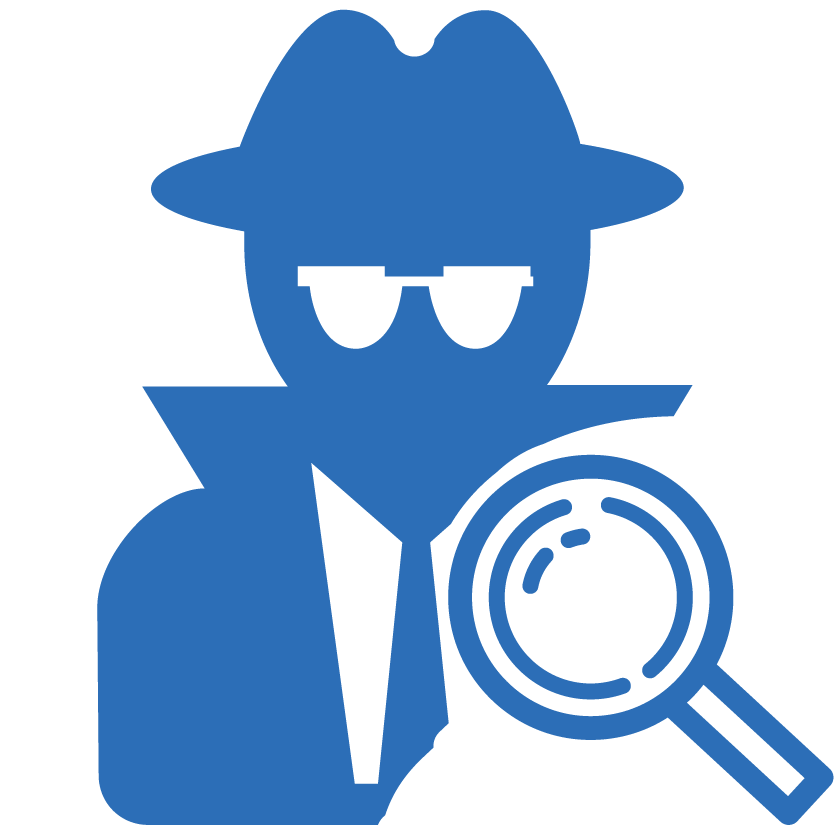
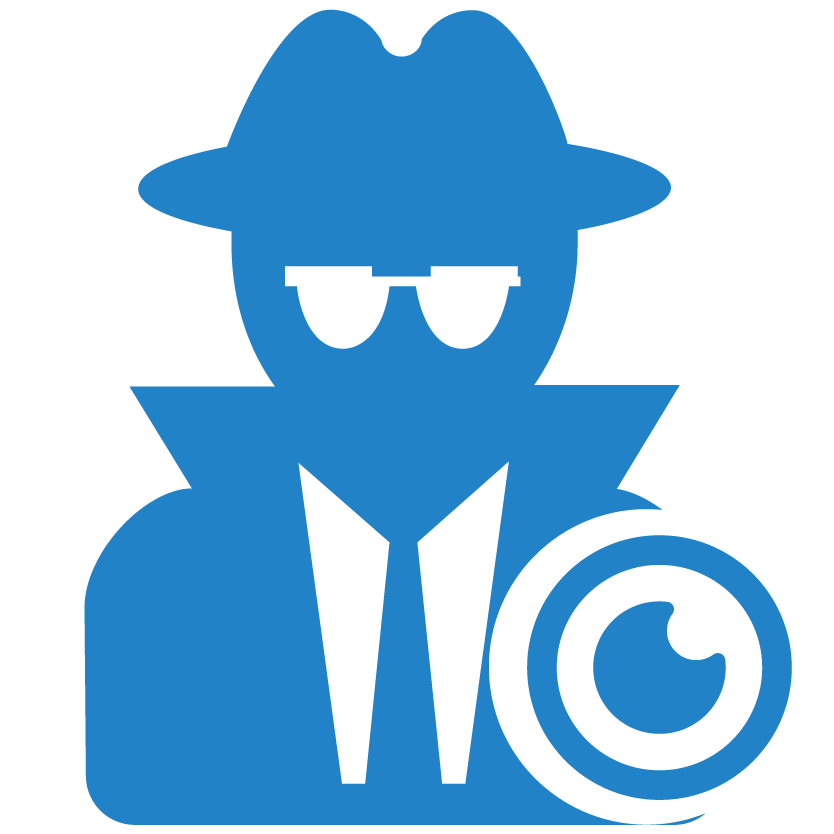
修改了项目配色方案，完善了介绍页，优化了登录细节

diff --git a/src/template/intro.html b/src/template/intro.html
@@ -67,9 +67,19 @@
           <div class="intro-page card">
             <div class="card-header">工具介绍</div>
             <div class="card-body">
-              <p>本工具用于快速识别</p>
+              <h1>角色识别助手</h1>
+              <p class="text-justify">
+                本工具名为角色识别助手，由<em>Github@NaiveJoker</em>制作，用于快速识别播放视频中出现的角色，为一部分人解决角色多时无法将人名与角色对应上的困扰。
+              </p>
               <h5>使用方法</h5>
-              <p>balabalabalabalabalabalabalabala</p>
+
+              <p class="text-justify">
+                部署好项目之后，将所要播放的视频放入<b>video</b>文件夹之中，在index页面的<b>source</b>处，按照相对路径引入需要播放的视频。
+              </p>
+
+              <p class="text-justify">
+                在视频过程中，当遇到不熟悉的角色时，点击下方<b>截屏</b>按钮进行截屏，同时你能在右边预览区查看截图预览。确认符合自己预期后，点击<b>上传</b>按钮，稍等片刻，即可在展示区查看角色名称列表。
+              </p>
             </div>
           </div>
         </div>

diff --git a/src/template/index.html b/src/template/index.html
@@ -144,19 +144,6 @@
       integrity="sha384-JjSmVgyd0p3pXB1rRibZUAYoIIy6OrQ6VrjIEaFf/nJGzIxFDsf4x0xIM+B07jRM"
       crossorigin="anonymous"
     ></script>
-    <script>
-      //使用FileReader和readAsDataURL实现预览所上传图片
-      function showPreview(source, imgId) {
-        let file = source.files[0];
-        if (window.FileReader) {
-          let fReader = new FileReader();
-          fReader.onloadend = function(e) {
-            document.getElementById(imgId).src = e.target.result;
-          };
-          fReader.readAsDataURL(file);
-        }
-      }
-    </script>
     <script src="../js/index.js"></script>
     <script src="../js/comment.js"></script>
     <script src="../js/displaynav.js"></script>

diff --git a/src/css/common.css b/src/css/common.css
@@ -4,3 +4,29 @@ body {
 .main {
   margin-top: 80px;
 }
+.card-header {
+  background-color: #2182c7;
+  background-image: linear-gradient(to right, #2182c7 50%, #27c168 100%);
+  color: #ffffff;
+}
+.btn-outline-primary {
+  color: #2182c7;
+  border-color: #2182c7;
+}
+
+.btn-primary {
+  color: #fff;
+  background-color: #2182c7;
+  border-color: #2182c7;
+}
+.btn-primary:hover {
+  color: #ffffff;
+  background-image: linear-gradient(to right, #2182c7 50%, #27c168 100%);
+  border-image: linear-gradient(to right, #2182c7 0%, #27c168 100%);
+  border-image-slice: 10;
+}
+.btn-outline-primary:hover {
+  color: #fff;
+  background-color: #2182c7;
+  border-color: #2182c7;
+}

diff --git a/src/js/signup.js b/src/js/signup.js
@@ -7,8 +7,12 @@ $(document).ready(function() {
       type: "POST",
       data: formData,
       success: function(data) {
-        alert("注册成功");
-        window.location.href = "/src/template/login.html";
+        if (data.status == 1) {
+          alert("注册成功");
+          window.location.href = "/src/template/login.html";
+        } else {
+          alert("邮箱已存在，请切换邮箱或直接登录");
+        }
       },
       cache: false,
       contentType: false,

diff --git a/src/css/navbar.css b/src/css/navbar.css
@@ -7,10 +7,12 @@
   border-bottom: 3px solid #f8f9fa;
 }
 .navbar-nav .nav-item .nav-link.active {
-  color: #2c6eb7;
-  border-bottom-color: #2c6eb7;
+  color: #2182c7;
+  border-bottom-color: #2182c7;
+  border-image: linear-gradient(to right, #2182c7 30%, #27c168 100%);
+  border-image-slice: 10;
 }
 .navbar-nav .nav-item .nav-link:hover {
-  color: #2c6eb7;
-  border-bottom-color: #2c6eb7;
+  color: #2182c7;
+  border-bottom-color: #2182c7;
 }

diff --git a/src/js/index.js b/src/js/index.js
@@ -16,6 +16,8 @@ $(document).ready(function() {
       console.log(typeof blob);
       formData.append("screenshot", blob);
       formData.append("filename", "role.png");
+    } else {
+      alert("无图片，图片上传失败！");
     }
     $.ajax({
       url: "http://localhost:5000/upload",
